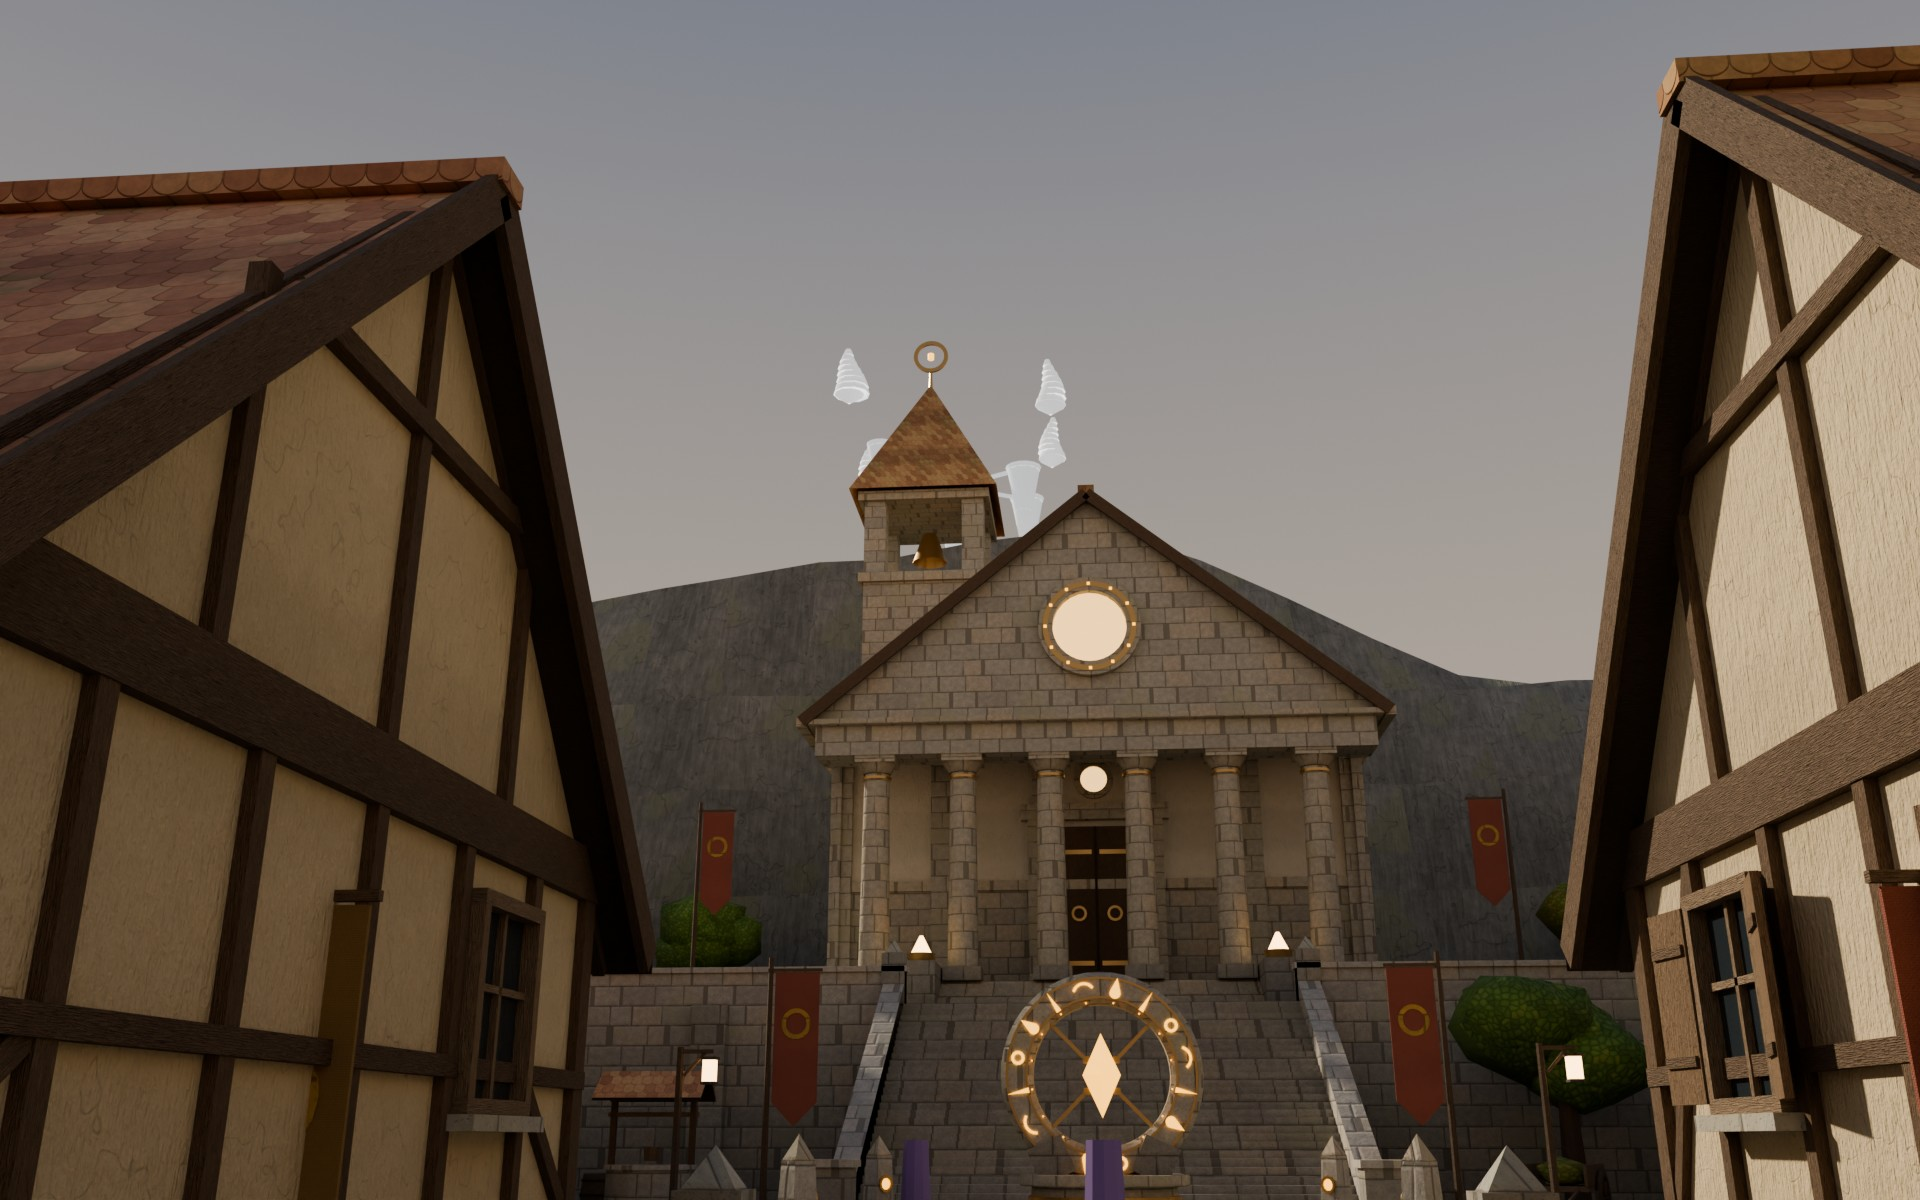
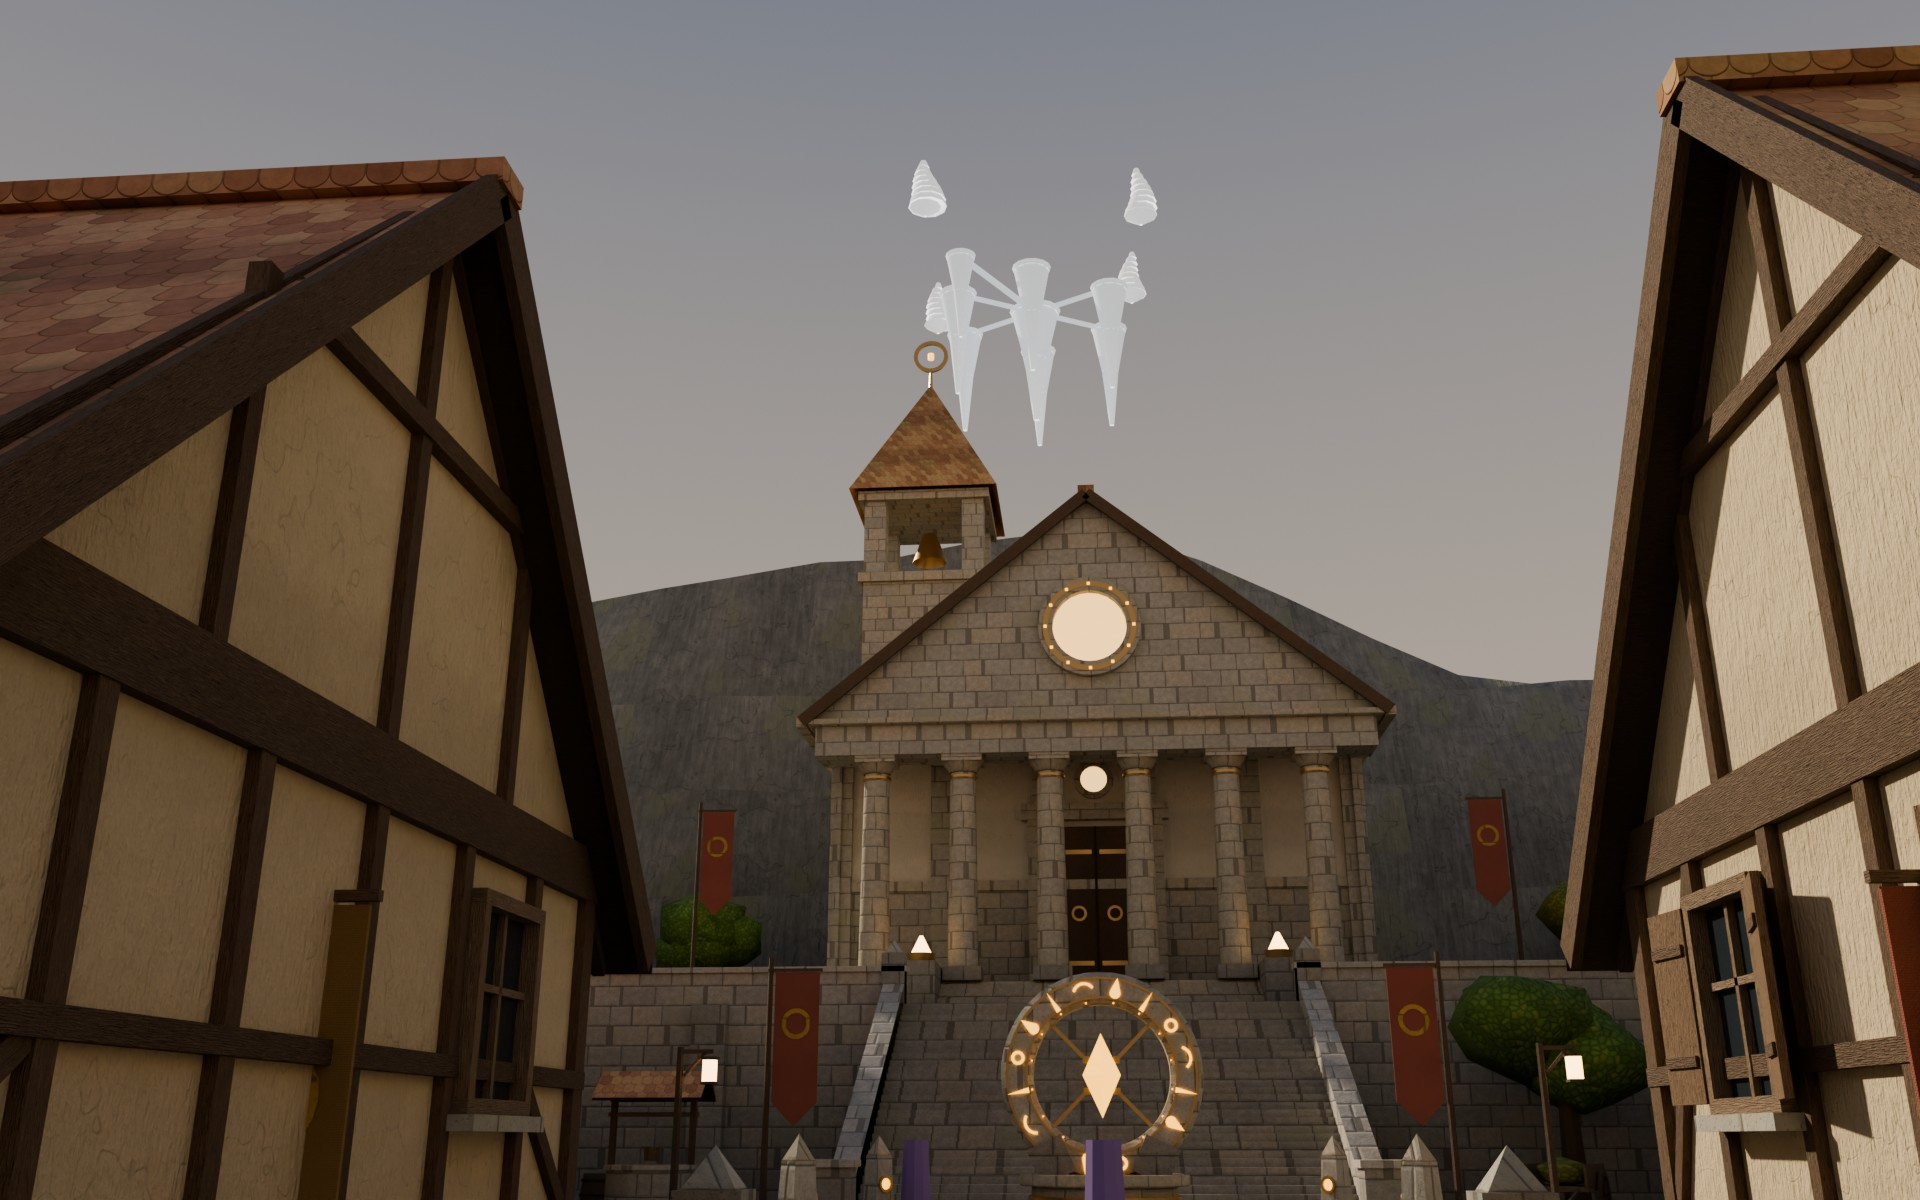
Town: sky archipelago higher above the temple; manifest rows and the decision log entry for town v1
Claude-Session: https://claude.ai/code/session_01GXNexMPppU9XEk5Q32gzVd

diff --git a/game/src/scenes/town-data.js b/game/src/scenes/town-data.js
@@ -168,14 +168,14 @@ export const TOWN_DATA = Object.freeze({
       "name": "town_sky",
       "kind": "town_sky",
       "position": [
-        -30.0,
-        150.0,
-        -330.0
+        -10.0,
+        178.0,
+        -300.0
       ],
       "center": [
-        -30.35,
-        150.31,
-        -329.59
+        -10.35,
+        178.31,
+        -299.59
       ],
       "radius": 46.4
     }

diff --git a/art/town/town_plan.py b/art/town/town_plan.py
@@ -94,7 +94,7 @@ BLOCKS = {
 }
 
 # The archipelago seen far up in the sky to the north (an impostor at reduced scale, visual only).
-SKY = {"x": -30.0, "y": 150.0, "z": -330.0, "scale": 0.62}
+SKY = {"x": -10.0, "y": 178.0, "z": -300.0, "scale": 0.62}
 
 # Paved rectangles (x0, x1, z0, z1) per terrace; everything else is grass and packed earth.
 PAVED = {

diff --git a/docs/decisions.md b/docs/decisions.md
@@ -283,3 +283,4 @@ Owner requested a slightly narrower stance to reduce the gap at the upper thighs
 | 10.11 | **GPT + Claude shared art workflow on a rented RTX 5090: draft only (owner document).** `docs/art/gpt-claude-gpu-workflow.md`: roles (GPT references and visual review, Claude Blender/rigs/animation/Three.js, owner decides art direction), a job service with `create_task`…`verify_backup`, a reference package per asset, immutable versions with `manifest.json` + SHA-256 uploaded to independent versioned storage before `backed_up`, and a recovery test before the first expensive run. Not connected: no GPU order active on Clore (10.11), no storage, no job service. The 07.11 rule (GitHub is the source of truth, the GPU is compute only) stays until the owner approves the new setup. The hill-town MMO screenshots are a mood reference only: no layout, names, assets or recognisable look are taken, and a town art direction is not part of the hackathon build unless the owner decides so. |
 | 10.11 | **Town on the ground; the current mode becomes the Tournament (owner, in the jury build).** Two locations: a hill town on the ground where play starts, and the air archipelago (current island, camps, Scroll, Shells) as a separate location above it. The existing season loop is renamed the Tournament, rules unchanged. A beautiful Tournament altar in the town square registers Iris and carries her up to the archipelago. Characters get an improvement pass after the town. Work split: GPT (owner's chat) makes storyboards from `docs/art/town/gpt-storyboard-request.md`; a Claude worker session on the newest model builds in Blender on the rented GPU and integrates in Three.js; this lead session takes the decisions. Brief: `docs/art/town-brief.md` (T-001, A-001). Lead default, open to the owner: `?demo=judge` also starts in the town, `?skip=town` goes straight up. |
 | 10.11 | **GPU rented for 6 hours (owner): Clore order 2426592**, server 47044 (RTX 5090 32 GB, driver 620.70.06 / CUDA 13.5, EPYC 64/128 threads, 256 GB RAM, 832 GB disk, 11 USD/day), from 16:05 UTC. Ends 22:05 UTC unless the owner writes "extend"; a reminder at 21:58 UTC saves results and cancels it. The first order 2426582 was cancelled after 4 minutes: Clore accepts a Jupyter token of at most 32 characters. The Jupyter token lives only in the lead session and the worker session. |
+| 10.11 | **Town v1 and Tournament altar v1 built (worker, branch `claude/town-v1`; T-001, A-001).** Our own plan (`art/town/town_plan.py`): four terraces climbing north, the lower gate and spawn in the south, a main street over two stairs to the square with the altar (40 m: 23.5 s walking, 12 s running), the temple on the top terrace, three side ramps for loops, the town wall, towers and a cliff closing the edges. Twenty houses from eight kit recipes, props, a temple; 136k triangles in seven streamed pieces under `game/public/assets/models/town/` (KTX2 + meshopt, `_m` light variants; per piece a `_col` mesh and `socket_lamp_*` empties). Worker decisions: (1) **tiling texture sets with vertex colour instead of unique bakes** (nine 1024 sets composed in numpy, seamless; crisp at the third-person camera, small downloads; every piece embeds its own copy); (2) **per-district blocks, not per-house files**: the layout lives in Blender only and the client places seven pieces from the generated `game/src/scenes/town-data.js`; (3) **the altar is an upright carved stone ring** on a three-step dais with the amber core floating in its eye and sixteen logogram marks (arc, spike, loop, drop) inlaid on each face; the glowing parts are separate geometry on `M_Altar_Core`, so the brief's emissive mask texture is not needed and the pulse is still done in code; no `_inspect` mesh in v1 (7.5k triangles, under the 16k budget); (4) **the town lives in the same Three.js scene** as the archipelago, far away, with its own collision world (the Shell-interior precedent); the archipelago in the town's sky is a 1.4k-triangle impostor (`town_sky`), not the real models; (5) **URL rule**: the lobby path, plain `?demo=judge` included, starts in the town; `?skip=town` goes straight up; the dev and QA deep links `?play=direct`, `?cinematic`, `?view`, `?film` keep going straight to the archipelago unless `?town=1` is added, so e2e tests, capture and jury-video scripts are unchanged (sent to the lead as an open default). No Tournament rule changed; `engine.js` and parity untouched. GPT storyboards had not arrived when v1 was built: refinement against them is still open. Sources `art/town/*.py`, renders `docs/art/town/qa/`, client notes `docs/town.md`. |

diff --git a/docs/art/manifest.md b/docs/art/manifest.md
@@ -24,3 +24,10 @@ Status: `greybox` (code placeholder) → `wip` → `review` → `approved`. Only
 | (code) | Agent holograms, logograms, VFX | Claude Code | own, MIT | — | — | in progress |
 | assets/audio/*.ogg (60) | Ambience, adaptive music stems, Guest voice, UI, footsteps, SFX, stingers | Claude Code (procedural synthesis, `art/audio/build_audio.py` + `synth.py`, numpy/scipy, Opus via ffmpeg/libopus) | own, MIT; no samples, no third-party audio | — | 5.77 MB Ogg Opus 48 kHz | review |
 | assets/ui/lobby_bg.jpg | Lobby background (floating archipelago, nacre Shells) | owner-supplied image (07.11) | supplied by the project owner for the lobby | — | 1280×610 JPEG q90, 155 KB | in use |
+| town/town_terrain.glb | Town terrain: four terraces, retaining walls with parapets, three stairs, three side ramps, town wall with towers, gatehouse, cliff, outer slopes | Claude Code (procedural, `art/town/`) | own, MIT | 9,889 (`_col` 424) | tiling sets shared with the town kit, 1024² base/ORM, 512² normals; glb 4.81 MB (`_m` 1.62 MB) | review |
+| town/town_block_gate.glb | Gate court and lower lane: six kit houses, market stalls, cart, barrels, crates, lamps, banners, trees | Claude Code (procedural, `art/town/`) | own, MIT | 33,176 (`_col` 462) | tiling sets shared with the town kit, 1024² base/ORM, 512² normals; glb 5.40 MB (`_m` 2.19 MB) | review |
+| town/town_block_mid.glb | Middle terrace: six kit houses, lamps, banners, trees, planters | Claude Code (procedural, `art/town/`) | own, MIT | 31,396 (`_col` 358) | tiling sets shared with the town kit, 1024² base/ORM, 512² normals; glb 5.37 MB (`_m` 2.16 MB) | review |
+| town/town_block_square.glb | The square: six kit houses, well, stalls, lamps, banners, trees | Claude Code (procedural, `art/town/`) | own, MIT | 31,044 (`_col` 404) | tiling sets shared with the town kit, 1024² base/ORM, 512² normals; glb 5.36 MB (`_m` 2.14 MB) | review |
+| town/town_temple.glb | Temple with portico, great ring and bell tower; two kit houses, trees, banners | Claude Code (procedural, `art/town/`) | own, MIT | 21,220 (`_col` 416) | tiling sets shared with the town kit, 1024² base/ORM, 512² normals; glb 5.10 MB (`_m` 1.89 MB) | review |
+| town/town_altar.glb | Tournament altar (A-001): three-step dais, upright carved stone ring with logogram inlays, amber core in a bronze claw, four waystones; `altar_focus`, `altar_stand` | Claude Code (procedural, `art/town/`) | own, MIT | 7,488 (`_col` 276) | tiling sets shared with the town kit, 1024² base/ORM, 512² normals; glb 0.88 MB (`_m` 0.39 MB) | review |
+| town/town_sky.glb | The archipelago far in the sky (impostor, vertex colours, visual only) | Claude Code (procedural, `art/town/`) | own, MIT | 1,364 (`_col` 0) | untextured; glb 0.03 MB | review |
